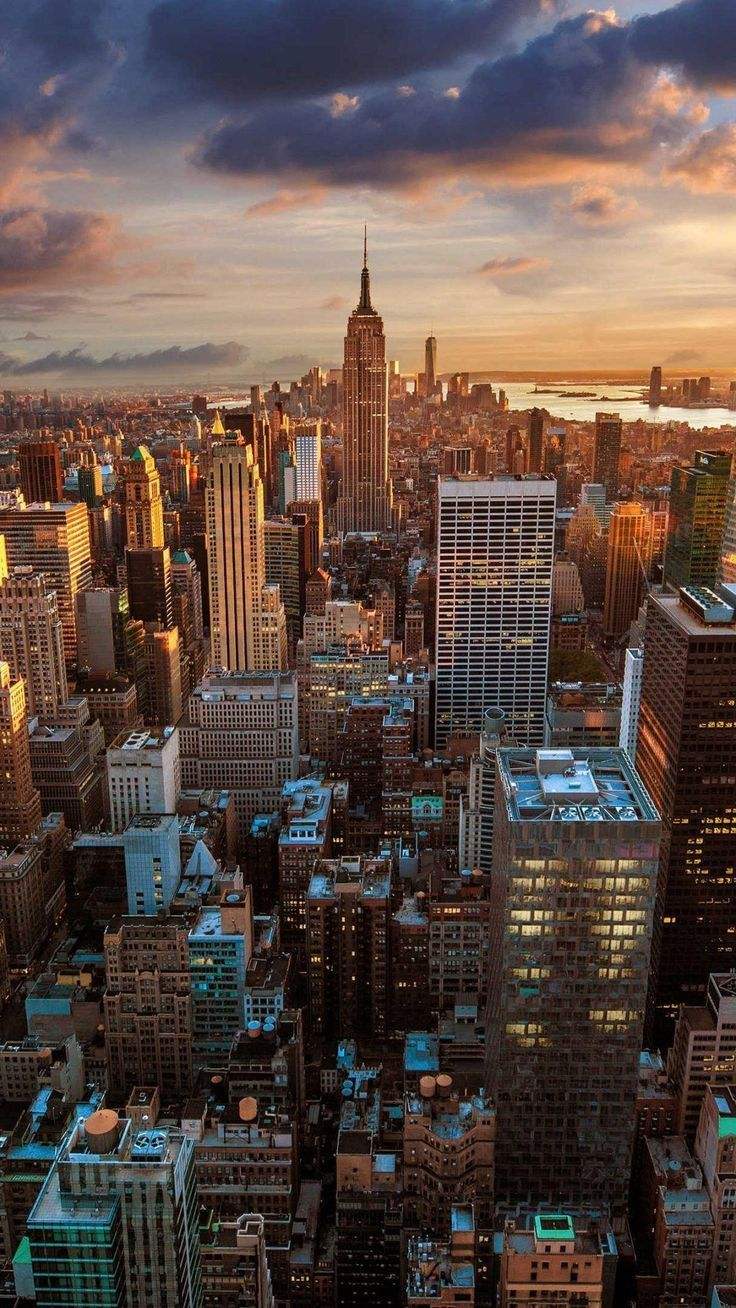
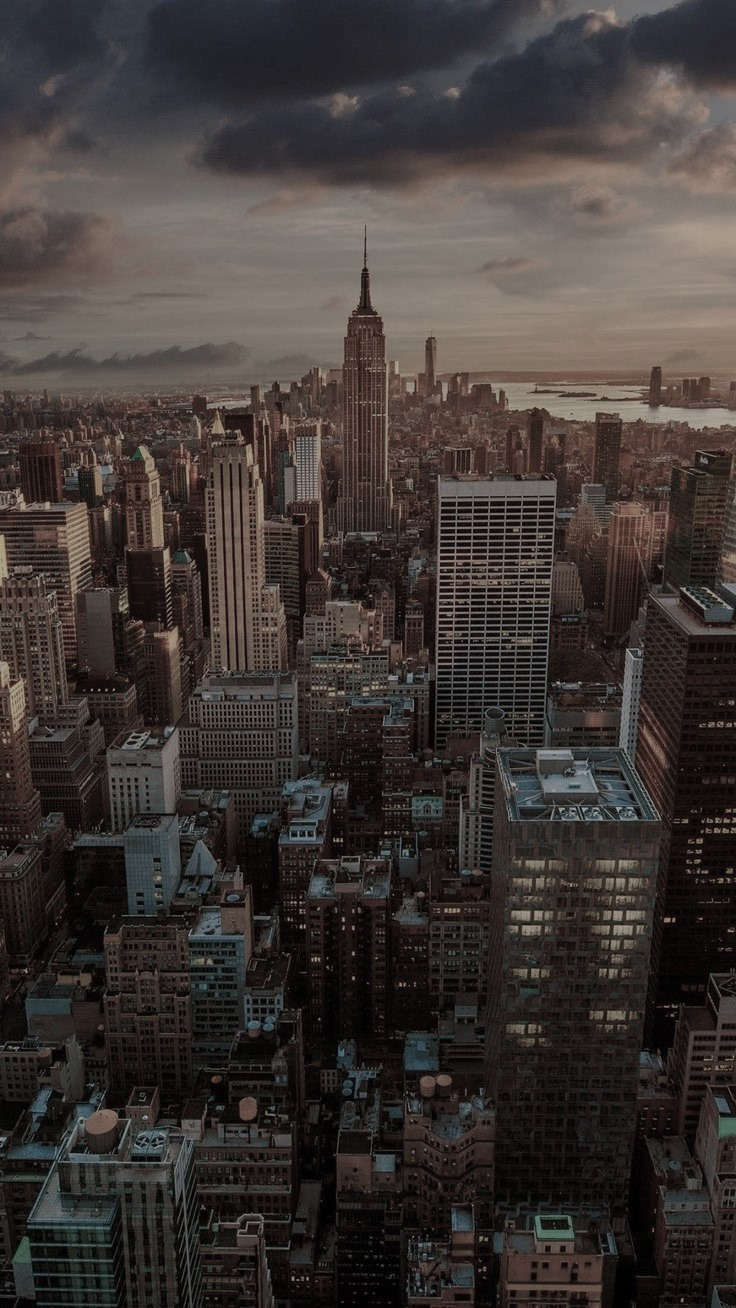
Implemented the searchbar and background

diff --git a/src/index.css b/src/index.css
@@ -1,13 +1,10 @@
-body {
-  margin: 0;
-  font-family: -apple-system, BlinkMacSystemFont, 'Segoe UI', 'Roboto', 'Oxygen',
-    'Ubuntu', 'Cantarell', 'Fira Sans', 'Droid Sans', 'Helvetica Neue',
-    sans-serif;
-  -webkit-font-smoothing: antialiased;
-  -moz-osx-font-smoothing: grayscale;
-}
-
-code {
-  font-family: source-code-pro, Menlo, Monaco, Consolas, 'Courier New',
-    monospace;
+.index {
+  background-image: url("city.jpg");
+  background-size: cover;
+  width: 450px;
+  height: 800px;
+  display: block;
+  margin: 0 auto;
+  border: none;
+  border-radius: 20px;
 }

diff --git a/src/Dictionary.js b/src/Dictionary.js
@@ -1,0 +1,23 @@
+import React, { useState } from "react";
+import "./Dictionary.css";
+
+export default function Dictionary() {
+  let [keyword, setKeyword] = useState("");
+
+  function handleKeywordChange(event) {
+    console.log(event.target.value);
+    setKeyword(event.target.value);
+  }
+
+  function search(event) {
+    event.preventDefault();
+    alert(`Searching for ${keyword}`);
+  }
+  return (
+    <div className="dictionary">
+      <form onSubmit={search}>
+        <input type="search" onChange={handleKeywordChange} />
+      </form>
+    </div>
+  );
+}

diff --git a/src/App.js b/src/App.js
@@ -1,11 +1,17 @@
 import "./App.css";
-import city from "./city.jpg";
+
+import Dictionary from "./Dictionary.js";
 
 function App() {
   return (
     <div className="App">
-      <header className="App-header"></header>
-      <img src={city} className="img-city img-fluid" alt="img-city" />
+      <div className="container">
+        <header className="App-header">
+          <main>
+            <Dictionary />
+          </main>
+        </header>
+      </div>{" "}
     </div>
   );
 }

diff --git a/src/index.js b/src/index.js
@@ -6,6 +6,9 @@ import App from "./App";
 const root = ReactDOM.createRoot(document.getElementById("root"));
 root.render(
   <React.StrictMode>
-    <App />
+    <div className="index">
+      <App />
+    </div>{" "}
+    <footer className="text-center">Coded by Jacqueline Koller</footer>
   </React.StrictMode>
 );

diff --git a/src/App.css b/src/App.css
@@ -1,9 +1,6 @@
 .App-header {
   margin: 30px auto;
 }
-img .img-city {
-  max-width: 450px;
-  display: block;
-  margin: 0 auto;
-  padding-top: 40px;
+.App {
+  color: #fff;
 }

diff --git a/src/Dictionary.css b/src/Dictionary.css
@@ -1,0 +1,5 @@
+input {
+  border: none;
+  margin-top: 30px;
+  opacity: 0.7;
+}
